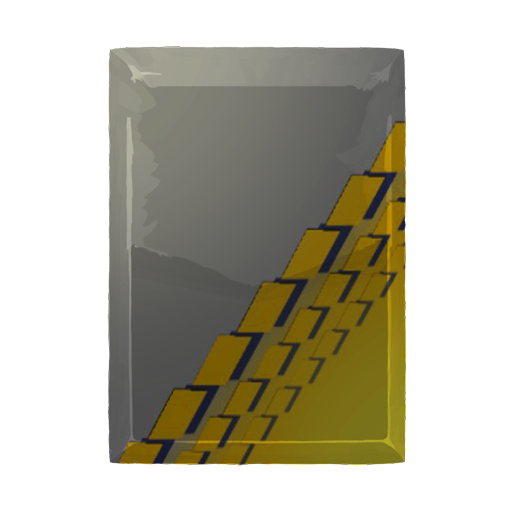
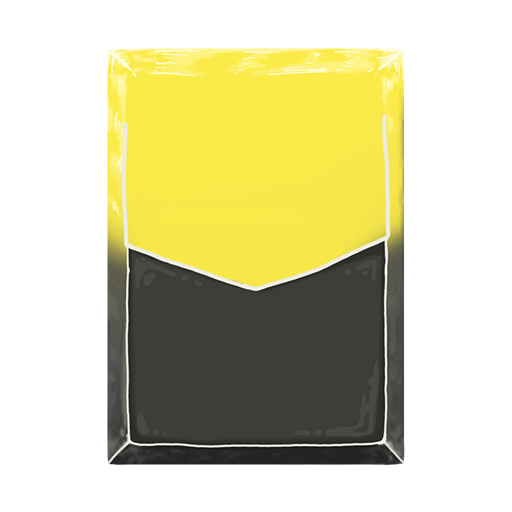
卡图背景更换

diff --git a/src/main/java/demoMod/icebreaker/cards/lightlemon/AbstractLightLemonCard.java b/src/main/java/demoMod/icebreaker/cards/lightlemon/AbstractLightLemonCard.java
@@ -1,20 +1,29 @@
 package demoMod.icebreaker.cards.lightlemon;
 
+import basemod.ReflectionHacks;
 import basemod.abstracts.CustomCard;
 import basemod.abstracts.CustomSavable;
 import com.badlogic.gdx.Gdx;
 import com.badlogic.gdx.graphics.Color;
+import com.badlogic.gdx.graphics.Texture;
 import com.badlogic.gdx.graphics.g2d.SpriteBatch;
+import com.badlogic.gdx.graphics.g2d.TextureAtlas;
+import com.evacipated.cardcrawl.modthespire.lib.SpireOverride;
+import com.evacipated.cardcrawl.modthespire.lib.SpireSuper;
 import com.google.gson.reflect.TypeToken;
 import com.megacrit.cardcrawl.cards.AbstractCard;
+import com.megacrit.cardcrawl.core.Settings;
 import com.megacrit.cardcrawl.dungeons.AbstractDungeon;
 import demoMod.icebreaker.IceBreaker;
 import demoMod.icebreaker.actions.SelectCardInCardGroupAction;
 import demoMod.icebreaker.enums.AbstractCardEnum;
+import demoMod.icebreaker.enums.CardTagEnum;
 import demoMod.icebreaker.interfaces.CardAddToDeckSubscriber;
 import demoMod.icebreaker.interfaces.TriggerFetterSubscriber;
 import demoMod.icebreaker.powers.ExtraTurnPower;
 
+import java.lang.reflect.InvocationTargetException;
+import java.lang.reflect.Method;
 import java.lang.reflect.Type;
 import java.util.ArrayList;
 import java.util.List;
@@ -37,8 +46,26 @@ public abstract class AbstractLightLemonCard extends CustomCard implements CardA
 
     public boolean ConnectionOfMeteor = false;
 
+    public static final Texture MAGIC_ATTACK_CARD_BG_TEXTURE_512 = new Texture(IceBreaker.getResourcePath("512/bg_attack_icebreaker_magic.png"));
+    public static final Texture MAGIC_SKILL_CARD_BG_TEXTURE_512 = new Texture(IceBreaker.getResourcePath("512/bg_skill_icebreaker_magic.png"));
+    public static final Texture MAGIC_CARD_BG_TEXTURE_512 = new Texture(IceBreaker.getResourcePath("512/bg_magic_icebreaker.png"));
+    public static final Texture MAGIC_ATTACK_CARD_BG_TEXTURE_1024 = new Texture(IceBreaker.getResourcePath("1024/bg_attack_icebreaker_magic.png"));
+    public static final Texture MAGIC_SKILL_CARD_BG_TEXTURE_1024 = new Texture(IceBreaker.getResourcePath("1024/bg_skill_icebreaker_magic.png"));
+    public static final Texture MAGIC_CARD_BG_TEXTURE_1024 = new Texture(IceBreaker.getResourcePath("1024/bg_magic_icebreaker.png"));
+
     public AbstractLightLemonCard(String id, String name, String img, int cost, String rawDescription, CardType type, CardRarity rarity, CardTarget target) {
         super(id, name, img, cost, rawDescription, type, AbstractCardEnum.ICEBREAKER, rarity, target);
+        switch (type) {
+            case ATTACK:
+                this.textureBackgroundSmallImg = IceBreaker.getResourcePath(IceBreaker.ATTACK_CARD);
+                break;
+            case POWER:
+                this.textureBackgroundSmallImg = IceBreaker.getResourcePath(IceBreaker.POWER_CARD);
+                break;
+            default:
+                this.textureBackgroundSmallImg = IceBreaker.getResourcePath(IceBreaker.SKILL_CARD);
+                break;
+        }
     }
 
     public boolean isM2Buffed() {
@@ -199,5 +226,56 @@ public abstract class AbstractLightLemonCard extends CustomCard implements CardA
                 }
             }
         }
+    }
+
+    @Override
+    public Texture getBackgroundSmallTexture() {
+        if (this.hasTag(CardTagEnum.MAGIC)) {
+            switch (this.type) {
+                case ATTACK:
+                    return MAGIC_ATTACK_CARD_BG_TEXTURE_512;
+                case SKILL:
+                    return MAGIC_SKILL_CARD_BG_TEXTURE_512;
+            }
+        }
+        return super.getBackgroundSmallTexture();
+    }
+
+    @Override
+    public Texture getBackgroundLargeTexture() {
+        if (this.hasTag(CardTagEnum.MAGIC)) {
+            switch (this.type) {
+                case ATTACK:
+                    return MAGIC_ATTACK_CARD_BG_TEXTURE_1024;
+                case SKILL:
+                    return MAGIC_SKILL_CARD_BG_TEXTURE_1024;
+            }
+        }
+        return super.getBackgroundLargeTexture();
+    }
+
+    @SpireOverride
+    public void renderCard(SpriteBatch sb, boolean hovered, boolean selected) {
+        SpireSuper.call(sb, hovered, selected);
+        if (!Settings.hideCards) {
+            if (this.hasTag(CardTagEnum.MAGIC)) {
+                if (!this.isOnScreen()) {
+                    return;
+                }
+
+                if (!this.isFlipped) {
+                    Method method = ReflectionHacks.getCachedMethod(AbstractCard.class, "renderHelper", SpriteBatch.class, Color.class, TextureAtlas.AtlasRegion.class, float.class, float.class);
+                    try {
+                        method.invoke(this, sb, ReflectionHacks.getPrivate(this, AbstractCard.class, "renderColor"), new TextureAtlas.AtlasRegion(MAGIC_CARD_BG_TEXTURE_512, 0, 0, 512, 512), this.current_x, this.current_y);
+                    } catch (IllegalAccessException | InvocationTargetException e) {
+                        throw new RuntimeException(e);
+                    }
+                }
+            }
+        }
+    }
+
+    private boolean isOnScreen() {
+        return !(this.current_y < -200.0F * Settings.scale) && !(this.current_y > (float)Settings.HEIGHT + 200.0F * Settings.scale);
     }
 }

diff --git a/src/main/java/demoMod/icebreaker/patches/SingleCardViewPopupPatch.java b/src/main/java/demoMod/icebreaker/patches/SingleCardViewPopupPatch.java
@@ -1,0 +1,27 @@
+package demoMod.icebreaker.patches;
+
+import basemod.ReflectionHacks;
+import com.badlogic.gdx.graphics.g2d.SpriteBatch;
+import com.evacipated.cardcrawl.modthespire.lib.SpirePatch;
+import com.megacrit.cardcrawl.cards.AbstractCard;
+import com.megacrit.cardcrawl.core.Settings;
+import com.megacrit.cardcrawl.screens.SingleCardViewPopup;
+import demoMod.icebreaker.cards.lightlemon.AbstractLightLemonCard;
+import demoMod.icebreaker.enums.CardTagEnum;
+
+public class SingleCardViewPopupPatch {
+    @SpirePatch(
+            clz = SingleCardViewPopup.class,
+            method = "renderCardBack"
+    )
+    public static class PatchRenderCardBack {
+        public static void Postfix(SingleCardViewPopup singleCardViewPopup, SpriteBatch sb) {
+            AbstractCard card = ReflectionHacks.getPrivate(singleCardViewPopup, SingleCardViewPopup.class, "card");
+            if (card != null) {
+                if (card.hasTag(CardTagEnum.MAGIC)) {
+                    sb.draw(AbstractLightLemonCard.MAGIC_CARD_BG_TEXTURE_1024, (float) Settings.WIDTH / 2.0F - 512.0F, (float)Settings.HEIGHT / 2.0F - 512.0F, 512.0F, 512.0F, 1024.0F, 1024.0F, Settings.scale, Settings.scale, 0.0F, 0, 0, 1024, 1024, false, false);
+                }
+            }
+        }
+    }
+}

diff --git a/src/main/java/demoMod/icebreaker/cards/lightlemon/TimeLetter.java b/src/main/java/demoMod/icebreaker/cards/lightlemon/TimeLetter.java
@@ -9,12 +9,9 @@ import com.megacrit.cardcrawl.actions.common.ReducePowerAction;
 import com.megacrit.cardcrawl.cards.DamageInfo;
 import com.megacrit.cardcrawl.characters.AbstractPlayer;
 import com.megacrit.cardcrawl.core.CardCrawlGame;
-import com.megacrit.cardcrawl.dungeons.AbstractDungeon;
 import com.megacrit.cardcrawl.localization.CardStrings;
 import com.megacrit.cardcrawl.monsters.AbstractMonster;
 import com.megacrit.cardcrawl.powers.AbstractPower;
-import com.megacrit.cardcrawl.powers.VulnerablePower;
-import com.megacrit.cardcrawl.powers.WeakPower;
 import demoMod.icebreaker.IceBreaker;
 import demoMod.icebreaker.enums.CardTagEnum;
 import demoMod.icebreaker.powers.NextTurnTimeStasisPower;
@@ -53,6 +50,7 @@ public class TimeLetter extends AbstractLightLemonCard {
             this.upgradeDamage(3);
             this.upgradeMagicNumber(1);
             this.portrait = UPGRADE_IMG;
+            this.textureImg = IceBreaker.getResourcePath("cards/TimeLetter+.png");
         }
     }
 

diff --git a/src/main/java/demoMod/icebreaker/IceBreaker.java b/src/main/java/demoMod/icebreaker/IceBreaker.java
@@ -42,9 +42,9 @@ public class IceBreaker implements EditStringsSubscriber,
                                    PostUpdateSubscriber,
                                    PostDungeonInitializeSubscriber {
 
-    private static final String ATTACK_CARD = "512/bg_attack_icebreaker.png";
-    private static final String SKILL_CARD = "512/bg_skill_icebreaker.png";
-    private static final String POWER_CARD = "512/bg_power_icebreaker.png";
+    public static final String ATTACK_CARD = "512/bg_attack_icebreaker.png";
+    public static final String SKILL_CARD = "512/bg_skill_icebreaker.png";
+    public static final String POWER_CARD = "512/bg_power_icebreaker.png";
     private static final String ENERGY_ORB = "512/card_icebreaker_orb.png";
     private static final String CARD_ENERGY_ORB = "512/card_small_orb.png";
     private static final String ATTACK_CARD_PORTRAIT = "1024/bg_attack_icebreaker.png";

diff --git a/src/main/java/demoMod/icebreaker/cards/lightlemon/CascadeIceWall.java b/src/main/java/demoMod/icebreaker/cards/lightlemon/CascadeIceWall.java
@@ -45,6 +45,7 @@ public class CascadeIceWall extends AbstractLightLemonCard {
             this.upgradeName();
             this.upgradeBlock(4);
             this.portrait = UPGRADE_IMG;
+            this.textureImg = IceBreaker.getResourcePath("cards/CascadeIceWall+.png");
         }
     }
 

diff --git a/src/main/java/demoMod/icebreaker/cards/lightlemon/MagicalFlood.java b/src/main/java/demoMod/icebreaker/cards/lightlemon/MagicalFlood.java
@@ -44,6 +44,7 @@ public class MagicalFlood extends AbstractLightLemonCard {
             this.upgradeName();
             this.upgradeBaseCost(0);
             this.portrait = UPGRADE_IMG;
+            this.textureImg = IceBreaker.getResourcePath("cards/MagicalFlood+.png");
         }
     }
 

diff --git a/src/main/java/demoMod/icebreaker/cards/lightlemon/FreezeKing.java b/src/main/java/demoMod/icebreaker/cards/lightlemon/FreezeKing.java
@@ -58,6 +58,7 @@ public class FreezeKing extends AbstractLightLemonCard {
             this.upgradeName();
             this.upgradeDamage(4);
             this.upgradeMagicNumber(1);
+            this.textureImg = IceBreaker.getResourcePath("cards/FreezeKing+.png");
         }
     }
 

diff --git a/src/main/java/demoMod/icebreaker/cards/lightlemon/Inspire.java b/src/main/java/demoMod/icebreaker/cards/lightlemon/Inspire.java
@@ -48,6 +48,7 @@ public class Inspire extends AbstractLightLemonCard {
             this.upgradeName();
             this.upgradeBlock(4);
             this.portrait = UPGRADE_IMG;
+            this.textureImg = IceBreaker.getResourcePath("cards/Inspire+.png");
         }
     }
 
